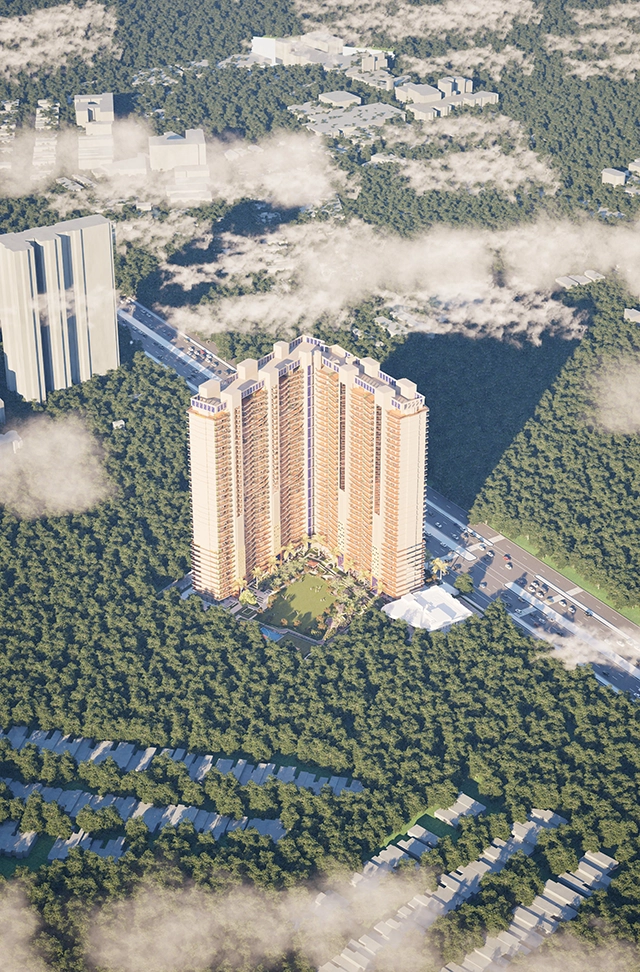
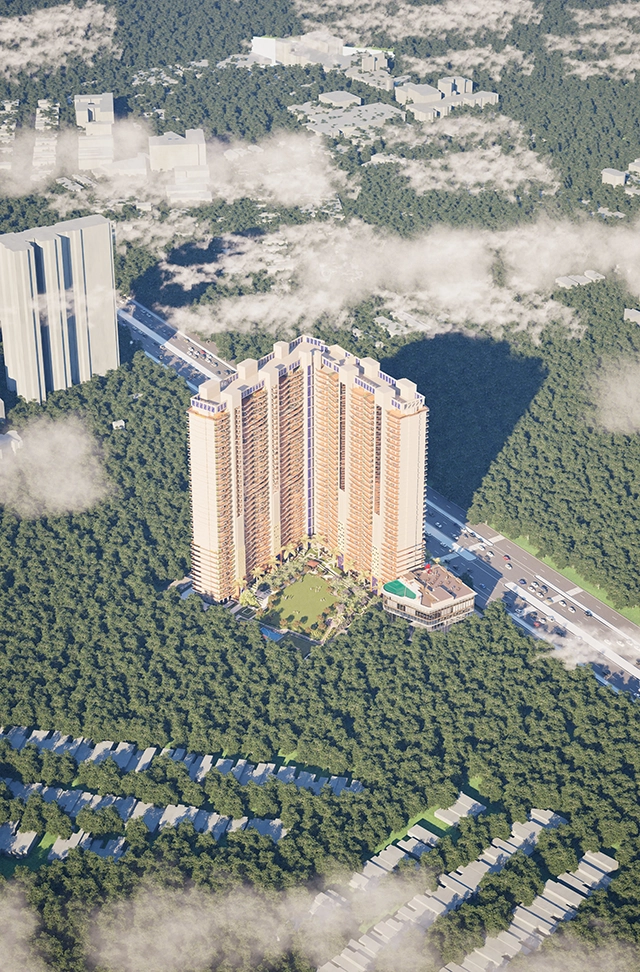
.

diff --git a/SubPages/Tower_Mall.html b/SubPages/Tower_Mall.html
@@ -1,0 +1,170 @@
+<!DOCTYPE html>
+<html lang="en">
+
+<head>
+    <meta charset="UTF-8">
+    <meta name="viewport" content="width=device-width, initial-scale=1.0">
+    <title>CM Infinia</title>
+    <link rel="stylesheet" href="./../styles.css">
+    <link rel="stylesheet" href="./../JS/Notification/ControllerCSS.css">
+    <style>
+        @media (max-width: 600px) {
+            .Front {
+                position: fixed;
+                /* make .Front itself the viewport-anchored box */
+                top: 50%;
+                left: 55%;
+                transform: translate(-50%, -50%) scale(1.3);
+            }
+        }
+    </style>
+</head>
+
+<body>
+
+    <script>
+        sessionStorage.setItem('lastTower', 'B');
+    </script>
+
+    <div id="ui-hint" class="ui-hint" aria-live="polite" role="status">
+        <!-- shown on mouse/trackpad devices -->
+        <div class="ui-hint__row ui-hint__desktop">
+            <!-- mouse icon (inline SVG) -->
+            <svg width="18" height="24" viewBox="0 0 18 24" aria-hidden="true">
+                <path d="M9 1c3.9 0 7 3.1 7 7v8c0 3.9-3.1 7-7 7s-7-3.1-7-7V8c0-3.9 3.1-7 7-7z" fill="white"
+                    opacity=".18" />
+                <rect x="8" y="4" width="2" height="5" rx="1" fill="white" />
+                <rect x="5" y="10" width="8" height="9" rx="4" fill="white" opacity=".4" />
+            </svg>
+            <span>Click on Floor To See Aparments</span>
+        </div>
+
+        <!-- shown on touch devices -->
+        <div class="ui-hint__row ui-hint__touch">
+            <!-- finger icon (inline SVG) -->
+            <svg width="18" height="24" viewBox="0 0 24 24" aria-hidden="true">
+                <path
+                    d="M12 2a4 4 0 014 4v4h1.2a2.8 2.8 0 012.8 2.8V16c0 3.3-2.7 6-6 6H9.5A5.5 5.5 0 014 16.5V11a3 3 0 016 0v3h1V6a4 4 0 011-2.7z"
+                    fill="white" opacity=".28" />
+                <rect x="11" y="5" width="2" height="9" rx="1" fill="white" />
+            </svg>
+            <span>Click on Tower's To Select Floor</span>
+        </div>
+    </div>
+    <button class="close-btn" id="closeCard">←</button>
+    <div id="infoCard" class="info-card">
+        <div class="info-content">
+
+            <h2 id="modalTitle">Tower B</h2>
+
+            <!-- <div class="image-placeholder">
+                <img src="images/Tower_B.jpg" alt="Tower A" />
+            </div> -->
+            <!-- ADD this block -->
+            <!-- <div class="info-details">
+                <div>
+                    <span><strong>Total Units:</strong></span>
+                    <span>8</span>
+                </div>
+                <div>
+                    <span><strong>Size:</strong></span>
+                    <span>3 BHK</span>
+                </div>
+            </div> -->
+            <div class="info-details" id="details"></div>
+
+            <button class="explore-btn" id="navigateButton">Explore</button>
+            <button class="enquiry-btn" id="openEnquiry">Enquiry Call</button>
+        </div>
+    </div>
+    <!-- Floor tooltip -->
+    <div id="floorTip" class="floortip" aria-hidden="true"></div>
+
+    <div class="Front">
+        <div class="image-wrapper">
+            <!-- <img src="./../images/Tower_B.jpg" alt="Tower_1"> -->
+            <img id="mainImage" src="./../images/Thumbnail/Tower_B.webp" data-full="./../images/Tower_Mall.jpg"
+                alt="Tower_1" fetchpriority="high" decoding="async" width="3840" height="5830" class="blur-up" />
+            <div class="Cutout">
+                <svg viewBox="0 0 3840 5830" xmlns="http://www.w3.org/2000/svg">
+
+                </svg>
+            </div>
+        </div>
+    </div>
+
+
+    <div class="enquiry">
+        <div class="overlay" id="enquiryOverlay" aria-hidden="true">
+            <div class="modal" role="dialog" aria-labelledby="enquiryTitle">
+                <div class="modal-header">
+                    <div id="enquiryTitle" class="title">Request Callback</div>
+                    <button class="close" id="closeBtn" aria-label="Close">✕</button>
+                </div>
+
+                <div class="modal-body">
+                    <form id="enquiryForm" class="form" novalidate>
+                        <div class="two">
+                            <input class="input" name="firstName" placeholder="First Name" required />
+                            <input class="input" name="lastName" placeholder="Last Name" required />
+                        </div>
+
+                        <div class="phone">
+                            <select name="dialCode" aria-label="Country Code">
+                                <option>+91</option>
+                                <option>+971</option>
+                                <option>+44</option>
+                                <option>+1</option>
+                            </select>
+                            <input type="tel" name="phone" placeholder="Phone Number" required />
+                        </div>
+
+                        <input class="input" type="email" name="email" placeholder="Email Address" required />
+
+                        <label class="agree">
+                            <input type="checkbox" id="agree" />
+                            <span>I agree to the <a href="#">Privacy Policy</a> and
+                                <a href="#">Terms & Conditions</a>.</span>
+                        </label>
+
+                        <button class="submit" type="submit">Submit</button>
+                    </form>
+                </div>
+            </div>
+        </div>
+    </div>
+
+    <!-- Bottom Center Panel -->
+
+
+    <nav class="jumpbar" role="navigation" aria-label="Quick jumps">
+        <div class="jumpbar-inner">
+            <button class="jumpchip" onclick="location.href='../index.html'">Home</button>
+            <button class="jumpchip" onclick="location.href='GodEye/Garden.html'">Gym</button>
+            <button class="jumpchip" onclick="location.href='GodEye/SidePark.html'">Restaurent</button>
+            <button class="jumpchip" onclick="location.href='GodEye/SidePark.html'">Roof Top 24*7</button>
+            <button class="jumpchip" onclick="location.href='Tower_A.html'">Tower A-B</button>
+            <button class="jumpchip" onclick="location.href='Tower_B.html'">Tower C-D</button>
+            <button class="jumpchip" onclick="location.href='Tower_C.html'">Tower E-F</button>
+        </div>
+    </nav>
+
+
+
+    <script src="./../JS/Path_Function.js"></script>
+    <script src="./../JS/Notification/Controller_Single.js"></script>
+    <script>
+        const closeCard = document.getElementById('closeCard'); // make sure it's defined
+        if (closeCard) {
+            closeCard.addEventListener('click', () => {
+                window.location.href = "./../index.html"; // always go to index.html
+            });
+        }
+    </script>
+    <script src="./../JS/enquiry_data.js"></script>
+    <script src="./../JS/HoverName.js"></script>
+    <script src="./../JS/Disbale-Inspect.js"></script>
+    <script src="./../JS/Image_Loader.js"></script>
+</body>
+
+</html>

diff --git a/index.html b/index.html
@@ -221,7 +221,7 @@
             <h2 id="modalTitle">Tower_A</h2>
 
             <div class="image-placeholder">
-                <img src="images/Thumbnail/Tower_A.webp" alt="Tower A" />
+                <img src="images/Thumbnail/Tower_A-B.webp" alt="Tower A" />
             </div>
             <div class="info-details" id="details"></div>
             <button class="explore-btn" id="navigateButton">Explore</button>
@@ -305,6 +305,7 @@
             <button class="jumpchip" onclick="location.href='SubPages/Tower_A.html'">Tower A-B</button>
             <button class="jumpchip" onclick="location.href='SubPages/Tower_B.html'">Tower C-D</button>
             <button class="jumpchip" onclick="location.href='SubPages/Tower_C.html'">Tower E-F</button>
+            <button class="jumpchip" onclick="location.href='SubPages/Tower_Mall.html'">Commercial</button>
             <!-- add more as you like -->
         </div>
     </nav>

diff --git a/SubPages/3BHK/Lobby_Top.html b/SubPages/3BHK/Lobby_Top.html
@@ -43,10 +43,11 @@
             transform: translate(-50%, -50%);
             padding: 12px 12px;
             font-size: 16px;
-            background: rgba(196, 196, 196, 0.8);
+            background: rgba(255, 255, 255, 0.8);
+            /* background: rgba(0, 100, 158, 0.8); */
             border: 2px solid rgba(0, 0, 0, 0.2);
             border-radius: 10px;
-            color: white;
+            color: rgb(0, 0, 0);
             cursor: pointer;
             z-index: 10;
         }
@@ -88,7 +89,8 @@
 
 
         .touch-button:hover {
-            background-color: #c0392b;
+            background-color: #00649e;
+            color: rgb(255, 255, 255);
         }
 
         .close-btn2 {
